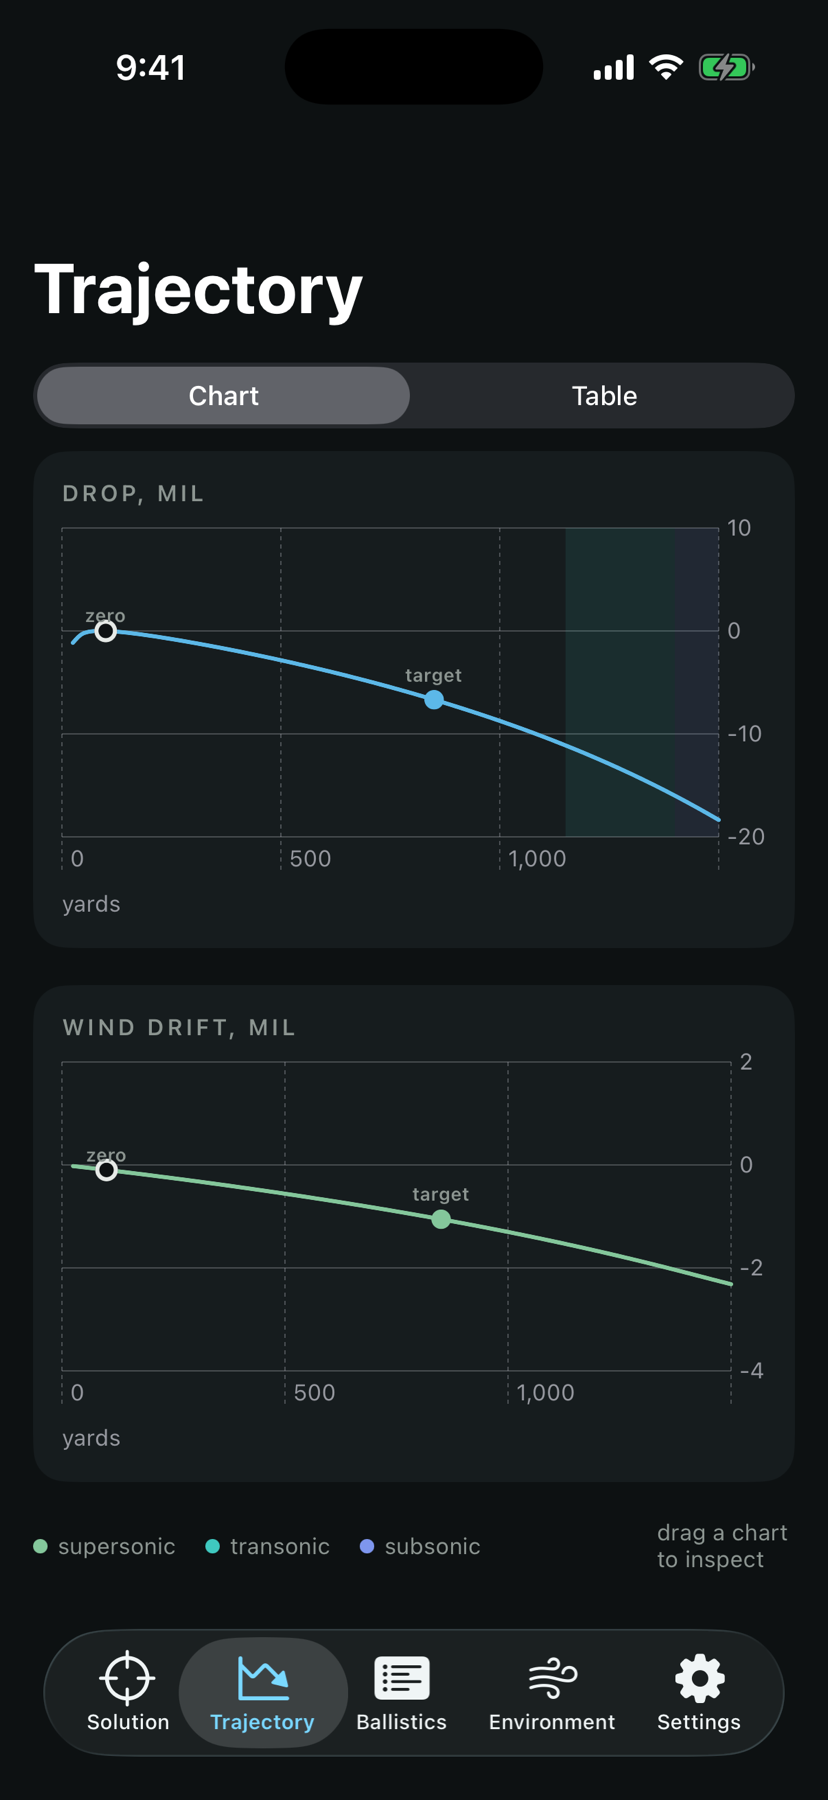
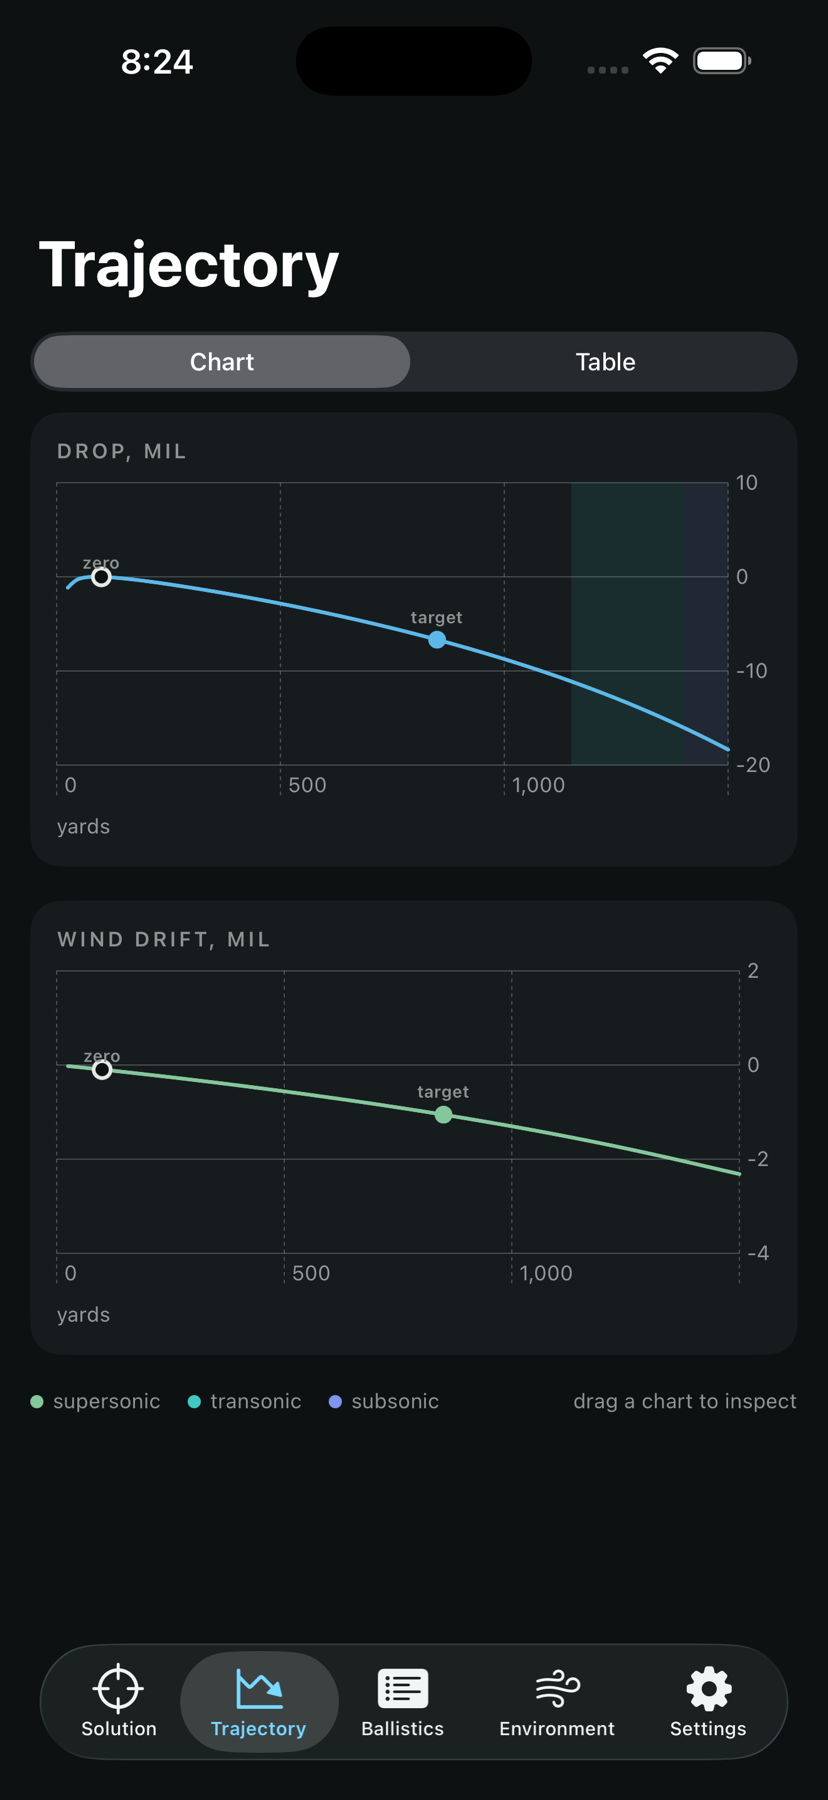
Screens: add range journal shot, refresh trajectory chart
Six-up grid on desktop; journal entry with live-fire photo joins
the lineup and the trajectory capture matches the build 6 set.

diff --git a/index.html b/index.html
@@ -88,13 +88,14 @@
 
   <section id="screens">
     <h2>Five menus, no clutter</h2>
-    <p class="sub">Straight from the app: solution, trajectory, profiles, environment, and settings.</p>
+    <p class="sub">Straight from the app: solution, trajectory, profiles, environment, settings, and the range journal.</p>
     <div class="shots">
       <figure class="shot"><a class="shot-link" href="img/full/solution.png" data-caption="Solution"><img src="img/solution.png" alt="Solution screen: range dial with elevation and windage corrections" loading="lazy"></a><figcaption>Solution</figcaption></figure>
       <figure class="shot"><a class="shot-link" href="img/full/trajectory.png" data-caption="Trajectory"><img src="img/trajectory.png" alt="Trajectory screen: drop and wind drift charts with transonic band" loading="lazy"></a><figcaption>Trajectory</figcaption></figure>
       <figure class="shot"><a class="shot-link" href="img/full/ballistics.png" data-caption="Ballistics"><img src="img/ballistics.png" alt="Ballistic profiles screen: guns and loads with bore-line icons" loading="lazy"></a><figcaption>Ballistics</figcaption></figure>
       <figure class="shot"><a class="shot-link" href="img/full/environment.png" data-caption="Environment"><img src="img/environment.png" alt="Environment screen: capture live weather with provenance badges" loading="lazy"></a><figcaption>Environment</figcaption></figure>
       <figure class="shot"><a class="shot-link" href="img/full/settings.png" data-caption="Settings"><img src="img/settings.png" alt="Settings screen: units, table step, background, support" loading="lazy"></a><figcaption>Settings</figcaption></figure>
+      <figure class="shot"><a class="shot-link" href="img/full/journal.png" data-caption="Range Journal"><img src="img/journal.png" alt="Range journal entry: session photo with corrections, load, and conditions" loading="lazy"></a><figcaption>Range Journal</figcaption></figure>
     </div>
   </section>
 

diff --git a/styles.css b/styles.css
@@ -315,7 +315,7 @@ footer a:hover { color: var(--ink); }
 
 /* ---------- app screenshots ---------- */
 .shots {
-  display: grid; grid-template-columns: repeat(auto-fit, minmax(170px, 1fr));
+  display: grid; grid-template-columns: repeat(auto-fit, minmax(140px, 1fr));
   gap: 20px;
 }
 .shot { text-align: center; }
